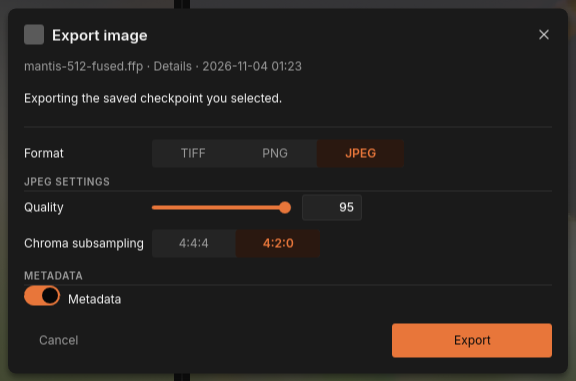
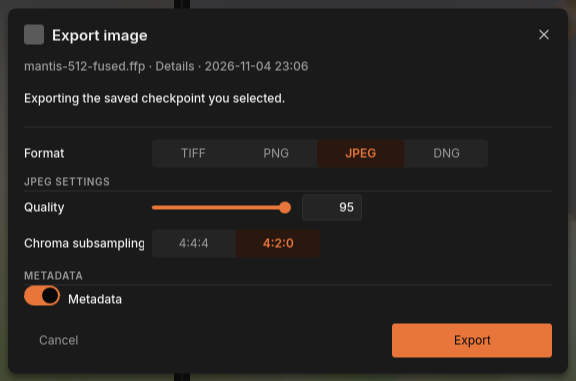
docs: regenerate the window shots and add the one-frame project shot
The export dialog shows DNG in its Format row, the Composite pane shows its stage card during a run, and Appearance lists Sharpness heatmap and Reduce motion; alt texts and captions follow the images. A file opened alone appears as a one-frame project, with its own figure.

diff --git a/docs/guide/first-stack.md b/docs/guide/first-stack.md
@@ -171,6 +171,10 @@ While the question is up, the rest of the window does not react.
   **Fuse stack** is greyed out, so you can look at a frame or check how it is
   read.
 
+![The window after opening one file, 00.tif: the tab is named 00, the Frame pane shows the frame, the Composite pane reads "Not fused yet", the Images tab lists "1 frame · 0 excluded" with a single row, and the Fuse stack button is dimmed.](../assets/manual/first-stack/one-frame.png)
+
+*One TIFF file opened as a one-frame project.*
+
 ## When a folder or project will not open
 
 A path that cannot be opened never closes the window and never changes the
@@ -302,7 +306,7 @@ With the frames open:
 3. Watch the bottom bar. The window stays fully usable while the stack is
    being fused.
 
-![The window during a fuse: the toolbar shows Pause and Cancel, the tab carries a play mark, and the bottom bar shows the current stage, the frames done, a progress bar and the estimated time remaining.](../assets/manual/first-stack/fuse-running.png)
+![The window during a fuse: the toolbar shows Pause and Cancel, the tab carries a play mark, the Composite pane shows the card "Preparing frames", and the bottom bar shows the current stage (Aligning), the frames done (1 of 8), a progress bar and the estimated time remaining.](../assets/manual/first-stack/fuse-running.png)
 
 *A fuse in progress.*
 

diff --git a/docs/guide/settings-window.md b/docs/guide/settings-window.md
@@ -167,9 +167,9 @@ when its content is taller than the window. **Presentation** chooses how the
 | **Image list** (default) | a small preview of each frame beside its name |
 | **Large previews** | a large preview of each frame |
 
-![The Appearance section with the Presentation menu open, offering List, Image list (checked) and Large previews; below it the lines "Previews show original source images." and "Editor source rows stay read-only."](../assets/manual/settings-window/settings-appearance.png)
+![The Appearance section with the Presentation menu open, offering List, Image list (checked) and Large previews; below it the Sharpness heatmap switch, turned on, and, under MOTION, the Reduce motion switch, turned off.](../assets/manual/settings-window/settings-appearance.png)
 
-*The Presentation menu. The panel changes as soon as you pick a choice.*
+*The Presentation menu, with the two other settings below it. The panel changes as soon as you pick a choice.*
 
 Click the menu and pick a choice, or use the Up and Down keys and Return;
 Esc closes the menu without changing anything. The previews always show your

diff --git a/docs/guide/export.md b/docs/guide/export.md
@@ -33,7 +33,7 @@ what will be written:
 You do not have to save the project or keep your strokes as a checkpoint
 before exporting: the dialog writes exactly what the **Composite** pane shows.
 
-![The Export image dialog with TIFF selected: the lines "mantis-512-fused.ffp · Details" with a date and "Exporting the saved checkpoint you selected.", the Format row with TIFF, PNG and JPEG, TIFF SETTINGS with Bit depth 16-bit and Compression None, the METADATA switch turned on, and the buttons Cancel and Export](../assets/manual/export/export-tiff.png)
+![The Export image dialog with TIFF selected: the lines "mantis-512-fused.ffp · Details" with a date and "Exporting the saved checkpoint you selected.", the Format row with TIFF, PNG, JPEG and DNG, TIFF SETTINGS with Bit depth 16-bit and Compression None, the METADATA switch turned on, and the buttons Cancel and Export](../assets/manual/export/export-tiff.png)
 
 *The export dialog for a saved checkpoint, with the TIFF settings it starts with.*
 

diff --git a/docs/guide/gui.md b/docs/guide/gui.md
@@ -121,6 +121,12 @@ own view, and a Composite pane in its own window shows the same card. The
 inset is switched off under **Sharpness heatmap** in
 [Appearance](settings-window.md#appearance).
 
+![The window during a fuse, with the Frame pane showing 00.tif and the Composite pane showing the card "Preparing frames" with "Images appear here once alignment starts."; the bottom bar reads Aligning, 1 of 8, with a progress bar and an ETA.](../assets/manual/first-stack/fuse-running.png)
+
+*A run in progress; the Composite pane shows its stage card, here
+"Preparing frames". The growing
+picture passes in a few seconds on a small stack and is not shown here.*
+
 The two panes always show the same part of the picture at the same zoom: pan
 or zoom in one, and the other follows. That makes it easy to compare a
 detail in one frame with the same detail in the result.

diff --git a/docs/guide/stacking.md b/docs/guide/stacking.md
@@ -336,7 +336,7 @@ the Settings tab shows that project's settings.
 
 ## While a fuse is running
 
-![The window during a fuse: the toolbar shows Pause and Cancel, the bottom bar reads Aligning with a progress bar and an ETA, and the whole Settings tab in the dock is drawn faded.](../assets/manual/stacking/stacking-locked-during-run.png)
+![The window during a fuse: the toolbar shows Pause and Cancel, the Composite pane shows the card "Preparing frames", the bottom bar reads Aligning with a progress bar and an ETA, and the whole Settings tab in the dock is drawn faded.](../assets/manual/stacking/stacking-locked-during-run.png)
 
 *During a run the Settings tab is faded and locked.*
 
